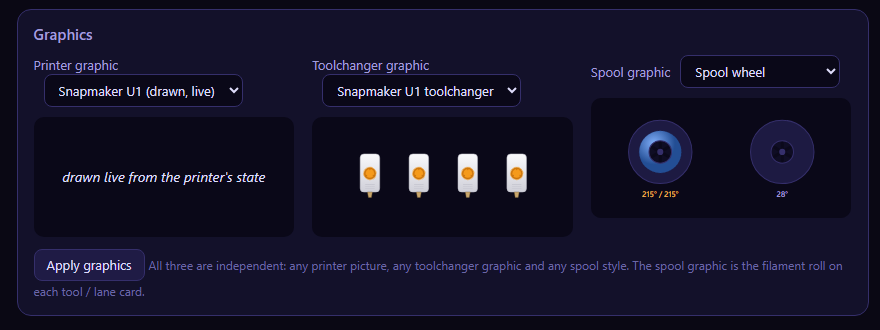
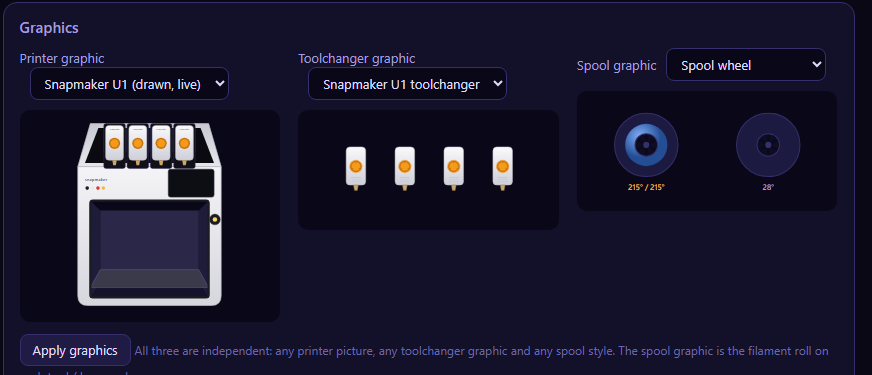
Settings: show an example picture for the drawn Snapmaker U1 printer graphic

diff --git a/feedline.html b/feedline.html
@@ -2356,11 +2356,37 @@ bootstrap();
     } finally { TC = save; }
   }
   function packUrl(p) { return p.custom ? "/packs/printer/" + encodeURIComponent(p.id) + "/" + encodeURIComponent(p.file) : (BUILTIN_IMAGES[p.id] || {}).url; }
+  // static example of the drawn Snapmaker U1 (the real one is drawn live); own gradient ids so it never clashes with the main page's drawing
+  function u1PrinterPreview() {
+    const lg = (id, a, b) => '<linearGradient id="' + id + '" x1="0" y1="0" x2="0" y2="1"><stop offset="0" stop-color="' + a + '"/><stop offset="1" stop-color="' + b + '"/></linearGradient>';
+    const s = ["<defs>" + lg("pvbody", "#F4F4F7", "#D6D6DD") + lg("pvtop", "#C9C9D2", "#E6E6EC") + lg("pvhead", "#FAFAFC", "#CFCFD8") + "</defs>",
+      '<path d="M100 200 H420 V488 Q420 510 398 510 H122 Q100 510 100 488 Z" fill="url(#pvbody)" stroke="#bdbdc8" stroke-width="1.5"/>',
+      '<polygon points="128,104 392,104 420,200 100,200" fill="url(#pvtop)" stroke="#bdbdc8" stroke-width="1.5"/>',
+      '<polygon points="146,114 374,114 404,192 116,192" fill="#0a0a10"/><rect x="156" y="114" width="208" height="54" fill="#181526"/>'];
+    const cols = ["#1b1b22", "#E8E8EE", "#d83a2e", "#F2B84B"];
+    for (let i = 0; i < 4; i++) {
+      const x = headX(i);
+      s.push('<rect x="' + (x - 24) + '" y="104" width="48" height="100" rx="5" fill="#101016" stroke="#352F6B"/>');
+      s.push('<g transform="translate(' + x + ',' + HEAD_Y + ')"><rect x="-20" y="0" width="40" height="78" rx="8" fill="url(#pvhead)" stroke="#b9b9c4"/>' +
+        '<text x="0" y="10" text-anchor="middle" font-size="4.4" font-weight="600" fill="#8a8a96">snapmaker</text>' +
+        '<circle cx="0" cy="40" r="12.5" fill="#C9740F"/><circle cx="0" cy="40" r="9.5" fill="#F59A1B" stroke="#C9740F"/>' +
+        '<polygon points="-5,78 5,78 3,89 -3,89" fill="#C9A66B"/></g>');
+      s.push('<circle cx="' + (121 + i * 12) + '" cy="248" r="4" fill="' + cols[i] + '"/>');
+    }
+    s.push('<polygon points="128,276 392,276 392,492 128,492" fill="#0a0818"/><polygon points="150,298 370,298 370,460 150,460" fill="#2a2748"/>',
+      '<polygon points="128,276 150,298 150,460 128,492" fill="#1f1c3a"/><polygon points="392,276 370,298 370,460 392,492" fill="#1f1c3a"/>',
+      '<polygon points="128,492 392,492 370,460 150,460" fill="#15122b"/><polygon points="150,430 370,430 392,470 128,470" fill="#3b3a4a" stroke="#6a66b0"/>',
+      '<rect x="128" y="276" width="264" height="216" rx="6" fill="none" stroke="#1b1b22" stroke-width="5"/>',
+      '<text x="116" y="232" font-size="10" font-weight="600" fill="#4a4a58">snapmaker</text>',
+      '<rect x="302" y="206" width="102" height="62" rx="5" fill="#0d0d14" stroke="#2b2b36" stroke-width="1.5"/>',
+      '<circle cx="406" cy="318" r="12" fill="#1b1b22" stroke="#3b3b48"/><circle cx="406" cy="318" r="5" fill="#ffd75e"/>');
+    return '<svg viewBox="96 96 330 424" style="width:auto;height:190px" role="img" aria-label="Snapmaker U1 example">' + s.join("") + "</svg>";
+  }
   async function previews() {
     const ps = $("setpp"), ts = $("settp");
     if (!ps || !ts) return;
     const pp = (CFG.packs.printer || []).find(p => p.id === ps.value);
-    $("setppv").innerHTML = pp && packUrl(pp) ? '<img src="' + escH(packUrl(pp)) + '" alt="">' : "<i>drawn live from the printer's state</i>";
+    $("setppv").innerHTML = pp && packUrl(pp) ? '<img src="' + escH(packUrl(pp)) + '" alt="">' : ps.value === "u1" ? u1PrinterPreview() : "<i>no preview</i>";
     $("settpv").innerHTML = await slotPreview(ts.value);
     const uv = $("setun").value;
     $("setunv").innerHTML = uv === "afc" ? unitPreview() : uv === "u1" ? '<svg viewBox="-110 -62 220 70" style="width:80%;max-height:140px" role="img" aria-label="U1 toolheads">' + [0, 1, 2, 3].map(i => '<g transform="translate(' + (-82 + i * 55) + ',0)">' + u1Head("p" + i) + "</g>").join("") + "</svg>" : "<i>no toolchanger graphic</i>";
